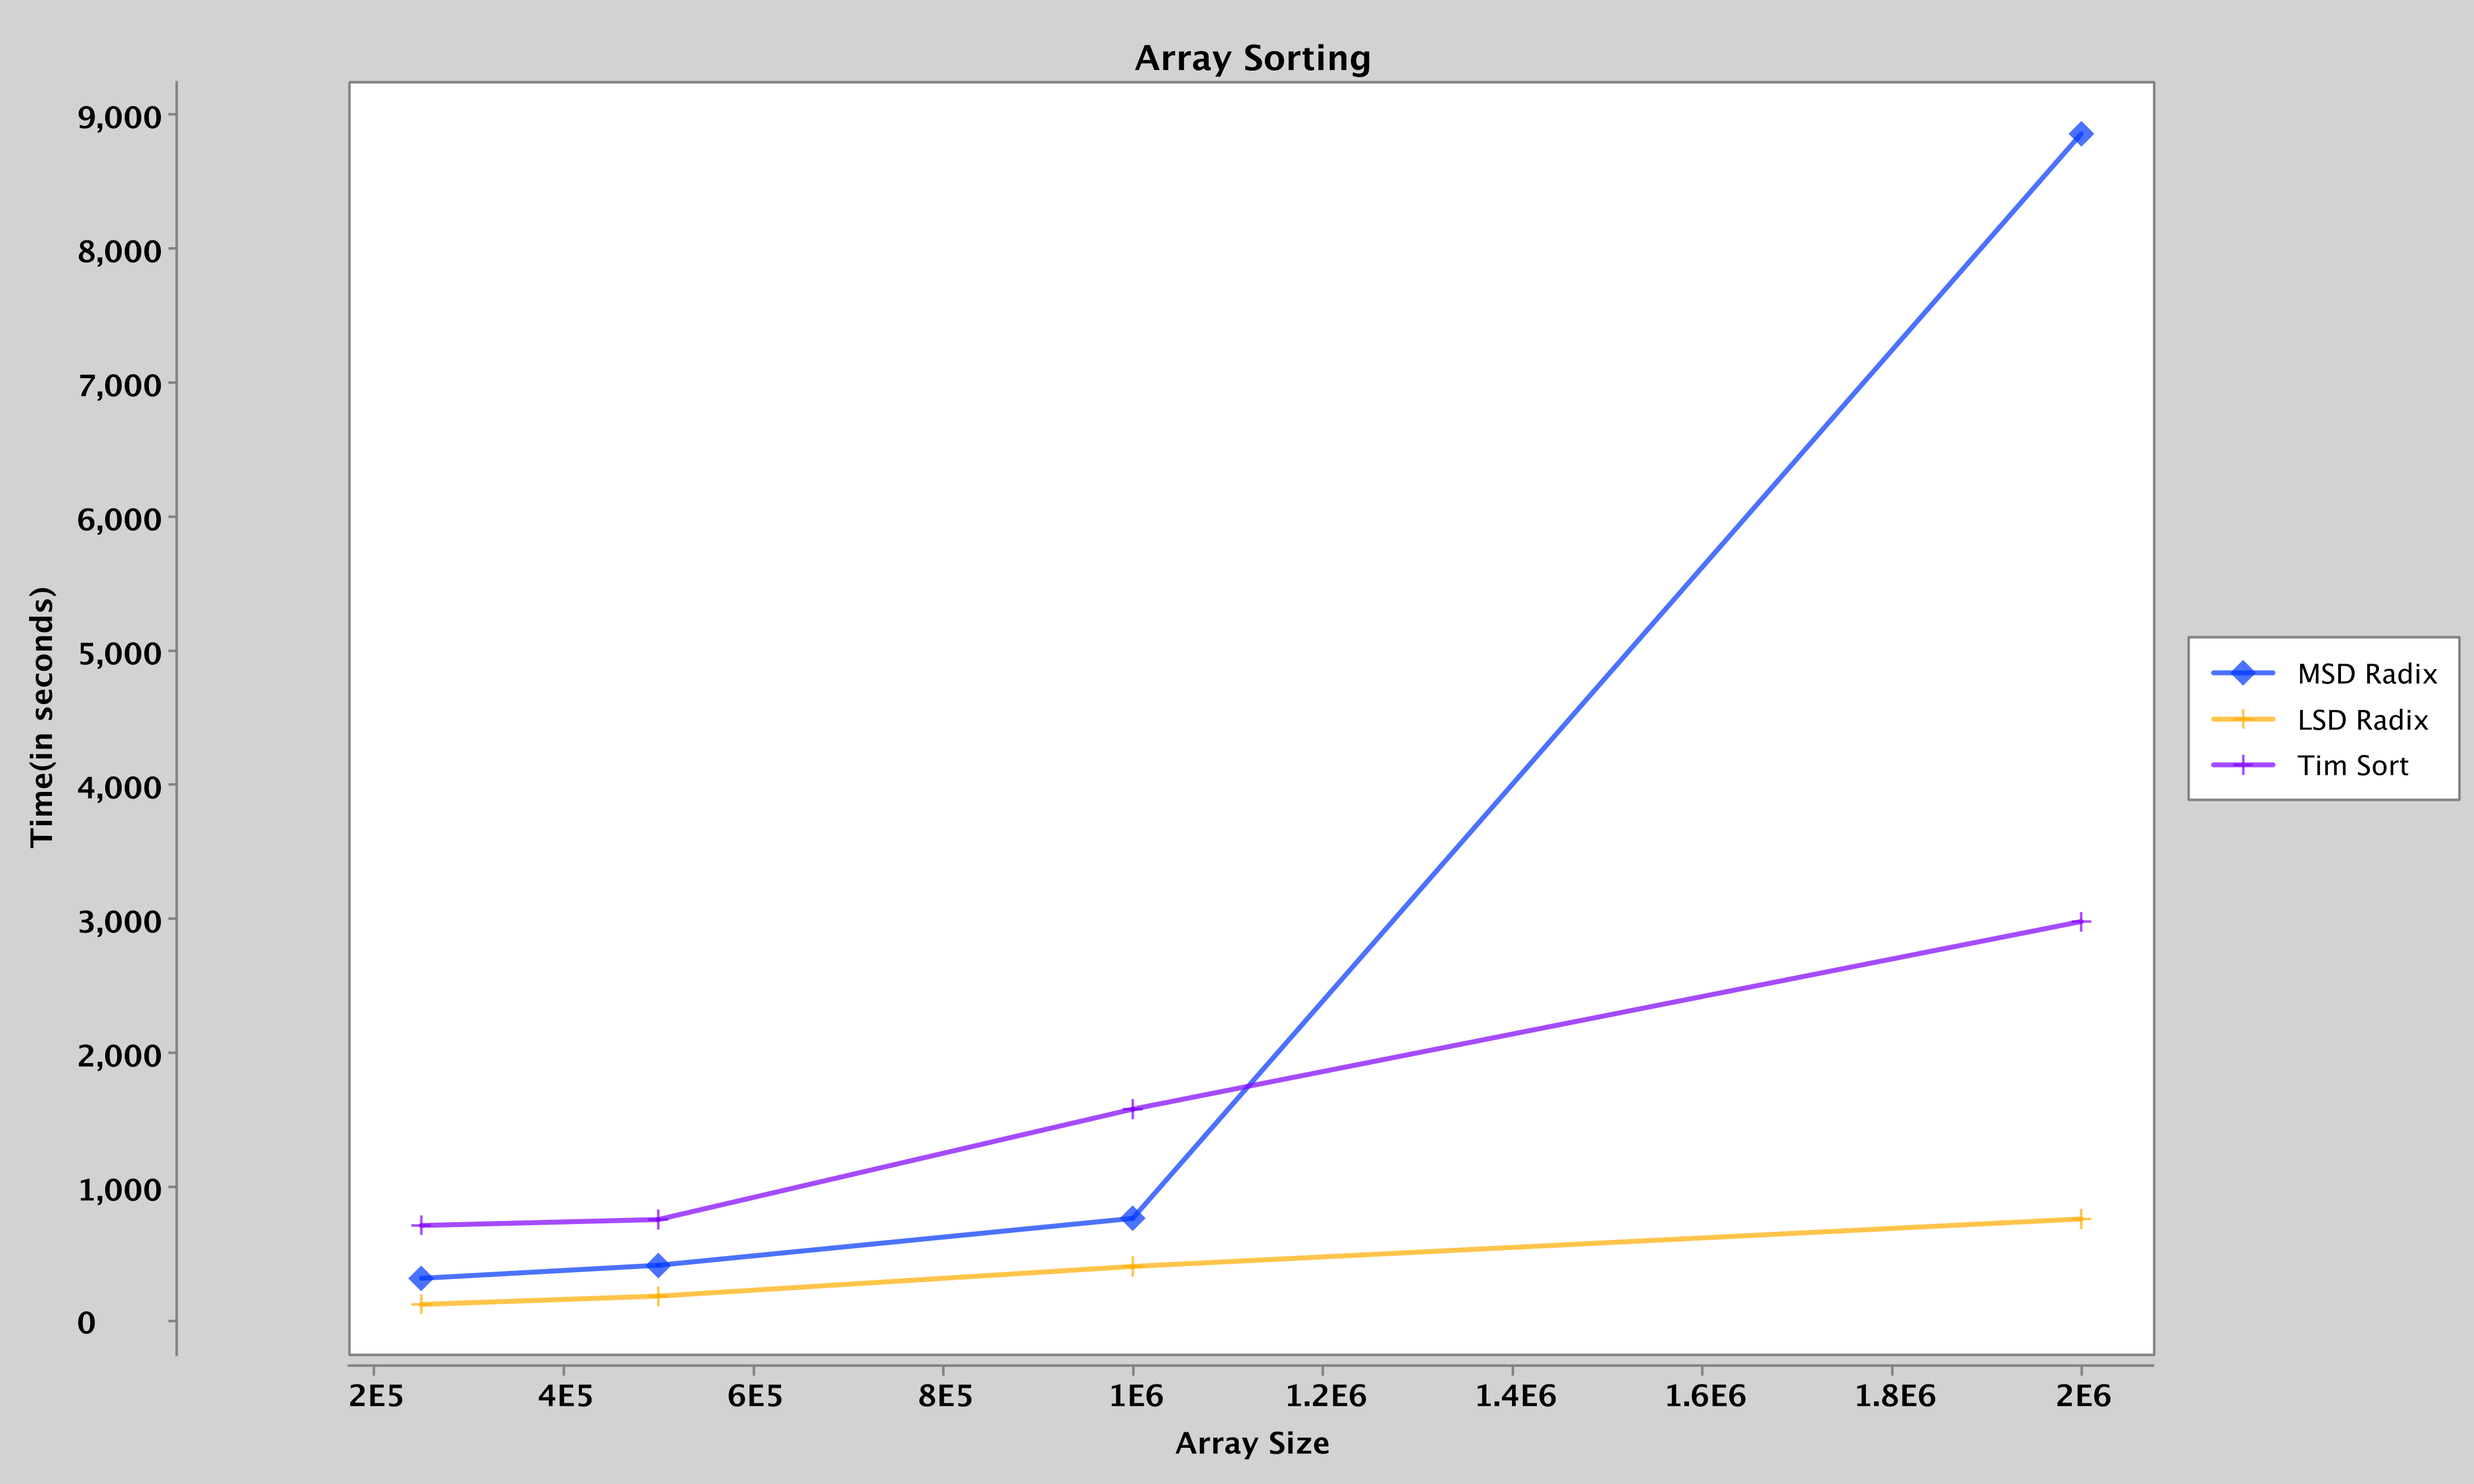
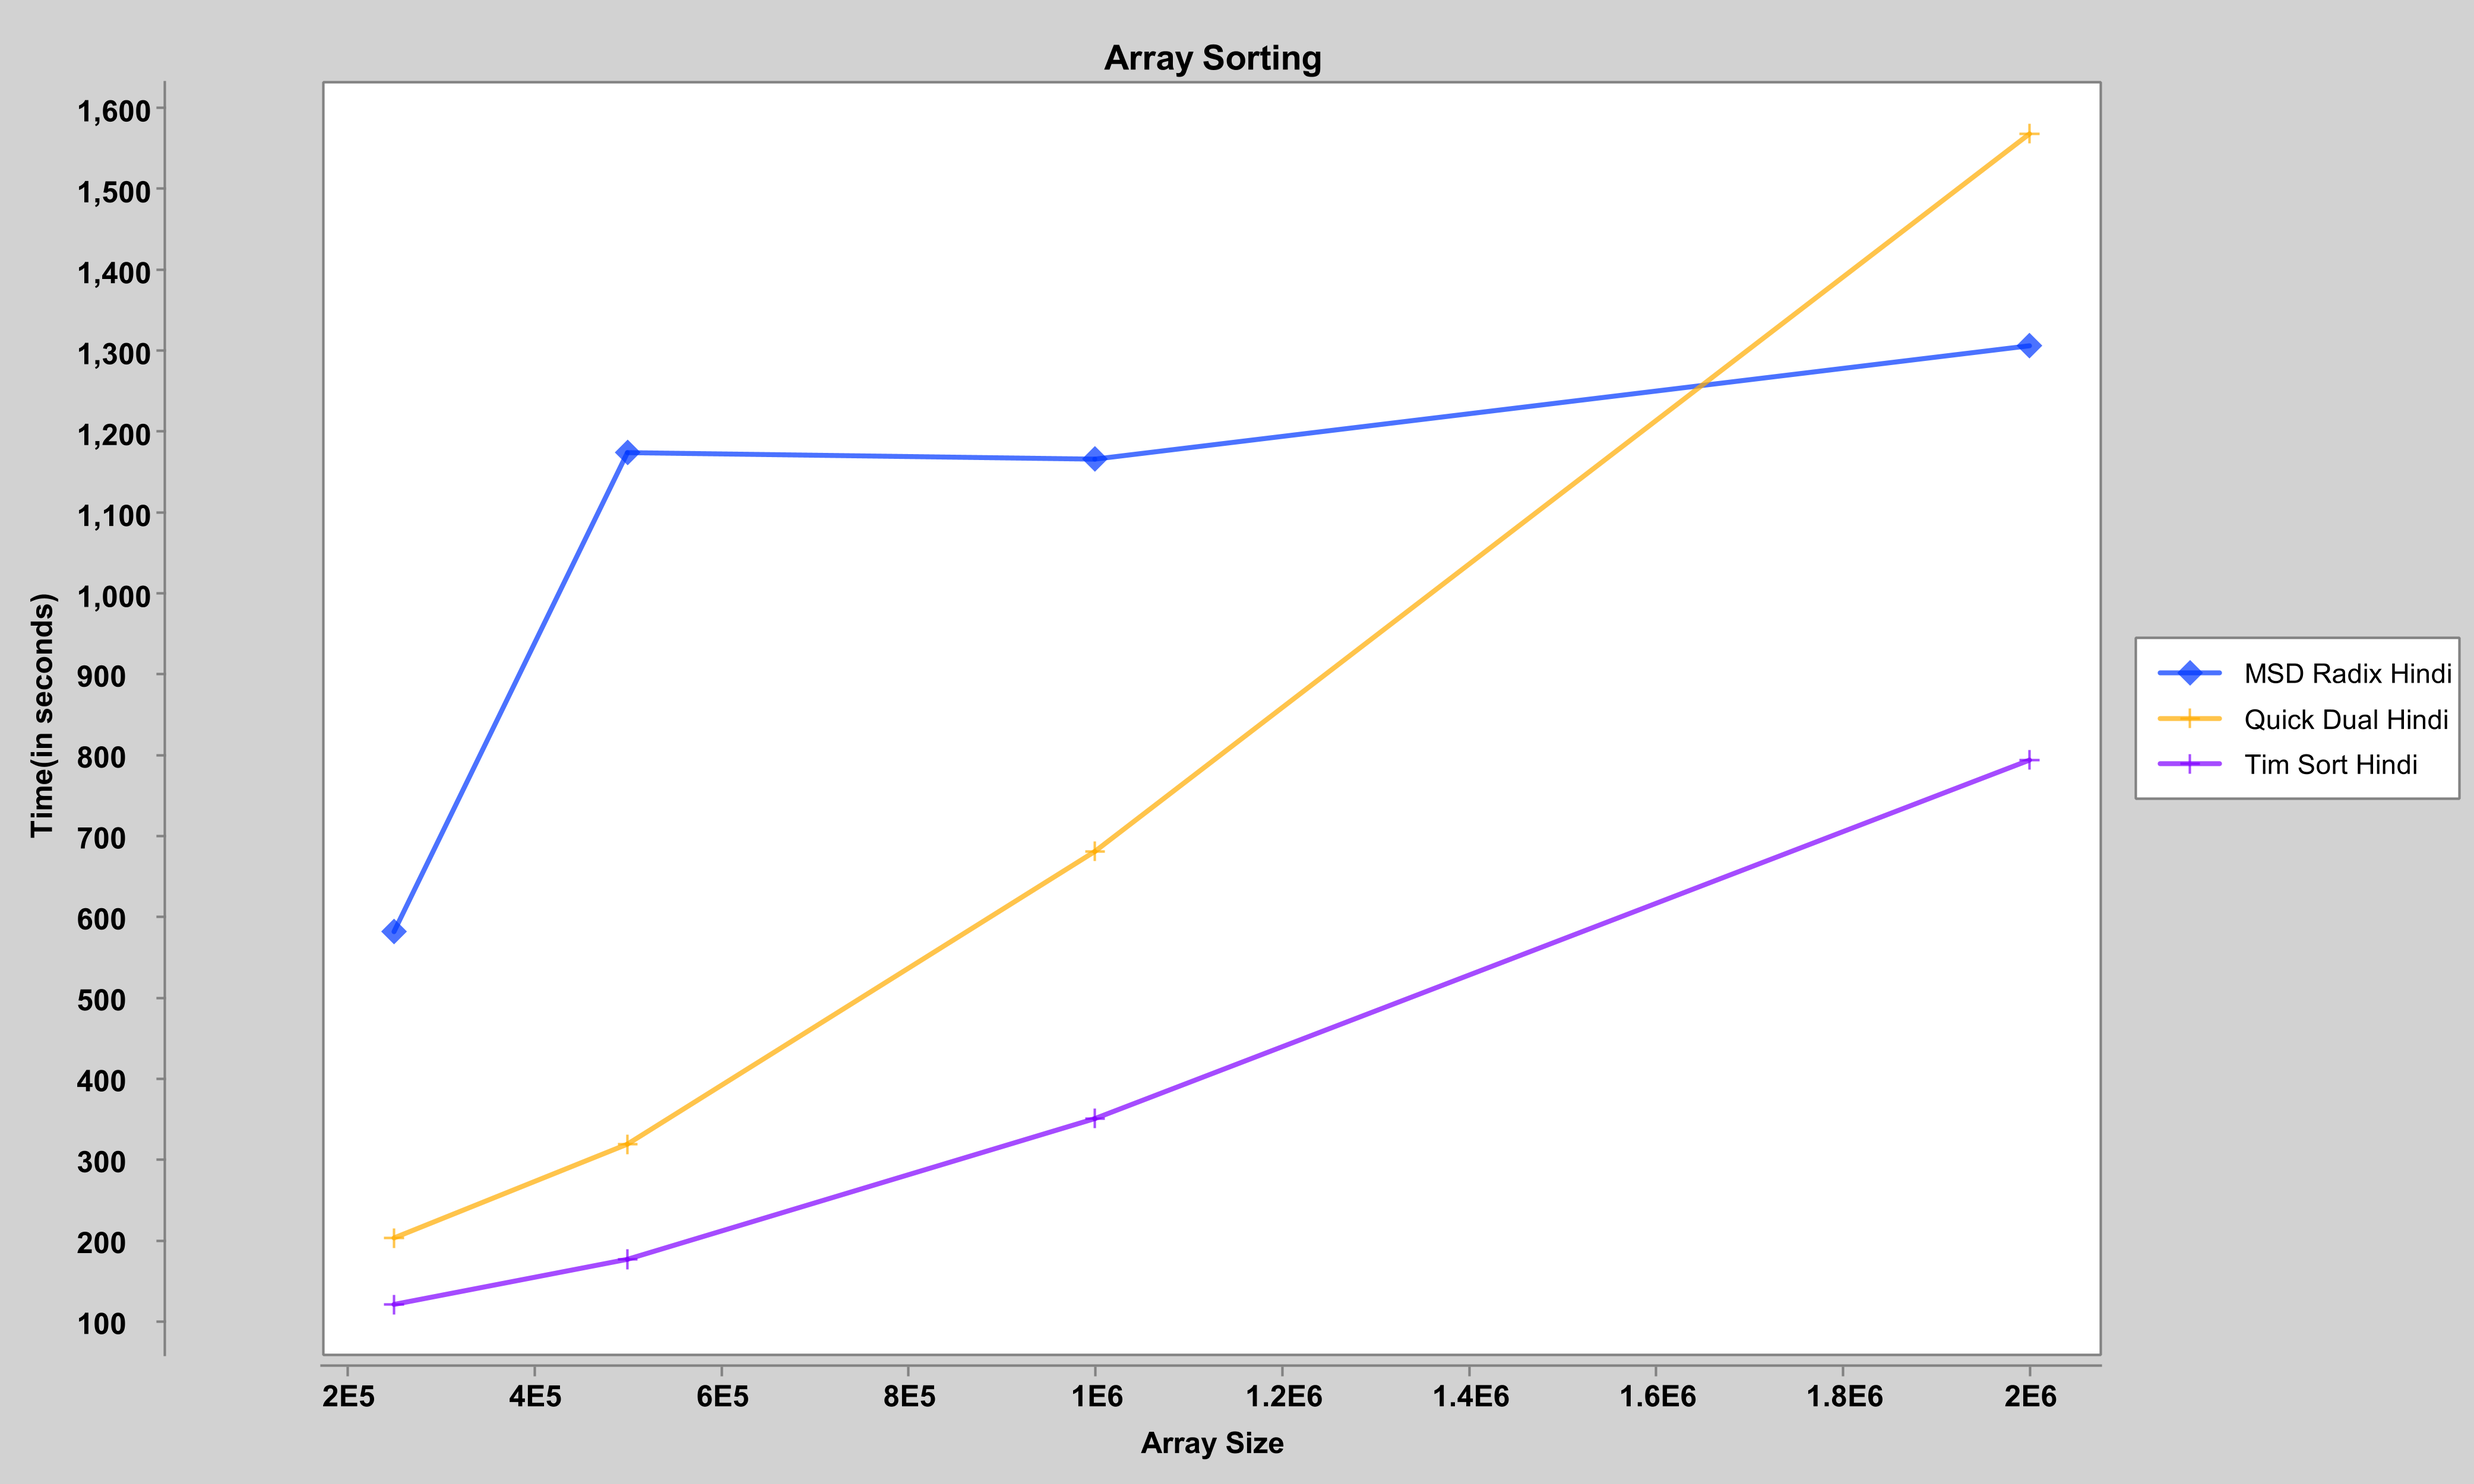
Added benchmark for Hindi

diff --git a/src/main/java/edu/neu/coe/info6205/benchmark/BenchmarkHindi.java b/src/main/java/edu/neu/coe/info6205/benchmark/BenchmarkHindi.java
@@ -2,107 +2,137 @@ package edu.neu.coe.info6205.benchmark;
 
 import java.io.FileNotFoundException;
 import java.io.IOException;
+import java.util.ArrayList;
+import java.util.Arrays;
 import java.util.List;
 
-import edu.neu.coe.info6205.msdRadix.IOTextFile;
-import edu.neu.coe.info6205.msdRadix.MSDRadixHindi;
-import edu.neu.coe.info6205.msdRadix.QuickDualPivot;
-import edu.neu.coe.info6205.msdRadix.TimSortHindi;
-//import INFO6205.src.test.java.edu.neu.coe.info6205.util.ConfigTest;
-//import edu.neu.coe.info6205.util.PrivateMethodTester;
+import edu.neu.coe.info6205.msdRadix.*;
 import edu.neu.coe.info6205.util.Timer;
+import org.knowm.xchart.*;
+import org.knowm.xchart.style.Styler;
+import org.knowm.xchart.style.markers.SeriesMarkers;
+
 
 public class BenchmarkHindi {
-	   static boolean isChinese = false;
-	
-	public void msdHindi() {
-		
-	    	   String[] a = null;
 
-	    	 try{
-	    		 IOTextFile io = new IOTextFile();
-	             List<String> list = io.readStream(isChinese);
-	              a = list.toArray(new String[0]);
-	             String[] aux = new String[a.length];
+    final static String fileName = "hindiWords.txt";
+    static List<Double> xData = new ArrayList<>();
+    static List<List<Double>> yData = new ArrayList<>();
 
-	         }catch(FileNotFoundException ex){
-	             System.out.println(ex.getMessage());
-	         } catch (IOException e) {
-				// TODO Auto-generated catch block
-				e.printStackTrace();
-			}
-	    	   
 
-	         MSDRadixHindi sorter = new MSDRadixHindi();
-	         Timer timer = new Timer();
-	         final String[] temp =a;
-	          double mean = timer.repeat(10, () -> temp, t -> {
-	        	 sorter.sort(temp);
-	             return null;
-	         });
-	        System.out.println("Time taken for MSD Radix Hindi Sorted Array: "+mean);
-	    
-	}
-	
-	public void quickDualHindi() {
-		
-		  String[] a = null;
+    private static void startBenchMark() throws IOException {
+        try{
+            System.out.println("Processing benchmarking ...");
+            IOTextFile io = new IOTextFile();
+//            int[] length = {250000};
+            int[] length = {250000,500000,1000000,2000000};
+            int totalAlgos = 3;
+            for(int i=0;i<totalAlgos;i++){
+                yData.add(new ArrayList<>());
+            }
 
-	    	 try{
-	    		 IOTextFile io = new IOTextFile();
-	             List<String> list = io.readStream(isChinese);
-	              a = list.toArray(new String[0]);
-	             String[] aux = new String[a.length];
+            for(int l:length){
+                xData.add((double) l);
+                String[] words;
+                if(l <= 1000000){
+                    words = io.readFileInRange(fileName,l);
+                }else{
+                    words = new String[l];
+                    for (int j = 0; j < l / 1000000; j++) {
+                        System.arraycopy(io.readFileInRange("hindiWords.txt", 1000000), 0, words, j * 1000000, 1000000);
+                    }
+                }
 
-	         }catch(FileNotFoundException ex){
-	             System.out.println(ex.getMessage());
-	         } catch (IOException e) {
-				// TODO Auto-generated catch block
-				e.printStackTrace();
-			}
+                benchmark(words);
+            }
+        }catch(FileNotFoundException ex){
+            System.out.println(ex.getMessage());
+        } catch (IOException e) {
+            e.printStackTrace();
+        }
 
-	         QuickDualPivot sorter = new QuickDualPivot();
-	         Timer timer = new Timer();
-	         final String[] temp =a;
-	          double mean = timer.repeat(10, () -> temp, t -> {
-	        	 sorter.sort(temp);
-	             return null;
-	         });
-	        System.out.println("Time taken for Hindi Quick Dual Sorted Array: "+mean);
-	}
-	
-	public void timSortHindi() {
-		
-		  String[] a = null;
-		 
-	    	 try{
-	    		 IOTextFile io = new IOTextFile();
-	             List<String> list = io.readStream(isChinese);
-	              a = list.toArray(new String[0]);
-	             String[] aux = new String[a.length];
-	             
-	         }catch(FileNotFoundException ex){
-	             System.out.println(ex.getMessage());
-	         } catch (IOException e) {
-				// TODO Auto-generated catch block
-				e.printStackTrace();
-			}
+        createChart();
 
-	    	 TimSortHindi sorter = new TimSortHindi();
-	         Timer timer = new Timer();
-	         final String[] temp =a;
-	          double mean = timer.repeat(10, () -> temp, t -> {
-	        	 sorter.timSort(temp,temp.length);
-	             return null;
-	         });
-	        System.out.println("Time taken for Hindi Tim Sorted Array: "+mean);
-	}
-	public static void main(String[] args) {
-		// TODO Auto-generated method stub
-		BenchmarkHindi r=new BenchmarkHindi();
-		r.msdHindi();
-		r.quickDualHindi();
-		r.timSortHindi();
-	}
+    }
 
+
+    private  static void benchmark(String[] words){
+        Timer timer;
+        double mean;
+        String type;
+        int runs = 1;
+
+        type = "Tim Hindi";
+        timer = new Timer();
+        final String[] tmp1 = Arrays.copyOf(words,words.length);
+        TimSortHindi timSorter = new TimSortHindi();
+        mean = timer.repeat(runs, () -> tmp1, t -> {
+            timSorter.timSort(tmp1,tmp1.length);
+            return null;
+        });
+        yData.get(0).add(mean);
+        System.out.println("Time taken for "+type+" to sort "+words.length + " array size: "+mean);
+
+
+        type = "MSD Radix Hindi";
+        timer = new Timer();
+        final String[] tmp2 = Arrays.copyOf(words,words.length);
+        MSDRadixHindi MSDRadixSortSorter1 = new MSDRadixHindi();
+        mean = timer.repeat(runs, () -> tmp2, t -> {
+            MSDRadixSortSorter1.sort(tmp2);
+            return null;
+        });
+        yData.get(1).add(mean);
+        System.out.println("Time taken for "+type+" to sort "+words.length + " array size: "+mean);
+
+
+//      LSD Benchmark
+        type = "Quick Dual Hindi";
+        timer = new Timer();
+        final String[] tmp3 = Arrays.copyOf(words,words.length);
+        QuickDualPivot sorter = new QuickDualPivot();
+        mean = timer.repeat(runs, () -> tmp3, t -> {
+            sorter.sort(tmp3);
+            return null;
+        });
+        yData.get(2).add(mean);
+        System.out.println("Time taken for "+type+" to sort "+words.length + " array size: "+mean);
+
+
+//      QuickSOrt Pivot Benchmark
+//        type = "QuickDual Pivot";
+//        timer = new Timer();
+//        final String[] quickTemp = Arrays.copyOf(words,words.length);
+//        QuickDualPivotC quickSortter = new QuickDualPivotC();
+//        mean = timer.repeat(runs, () -> quickTemp, t -> {
+//            quickSortter.sort(quickTemp);
+//            return null;
+//        });
+//        yData.get(3).add(mean);
+//        System.out.println("Time taken for "+type+" to sort "+words.length + " array size: "+mean);
+
+
+    }
+
+    private static void createChart() throws IOException {
+        XYChart chart = new XYChartBuilder().width(1000).height(600).theme(Styler.ChartTheme.XChart).title("Array Sorting").xAxisTitle("Array Size").yAxisTitle("Time(in seconds)").build();
+
+        // Customize Chart
+        chart.getStyler().setPlotGridLinesVisible(false);
+        chart.getStyler().setXAxisTickMarkSpacingHint(100);
+
+        XYSeries series = chart.addSeries("MSD Radix Hindi", xData,yData.get(1));
+        series.setMarker(SeriesMarkers.DIAMOND);
+        series = chart.addSeries("Quick Dual Hindi", xData,yData.get(2));
+        series.setMarker(SeriesMarkers.PLUS);
+        series = chart.addSeries("Tim Sort Hindi", xData,yData.get(0));
+        series.setMarker(SeriesMarkers.PLUS);
+        new SwingWrapper<XYChart>(chart).displayChart();
+        BitmapEncoder.saveBitmapWithDPI(chart, "./SortAlgoChart", BitmapEncoder.BitmapFormat.PNG, 300);
+    }
+
+
+    public static void main(String[] args) throws IOException {
+        startBenchMark();
+    }
 }
